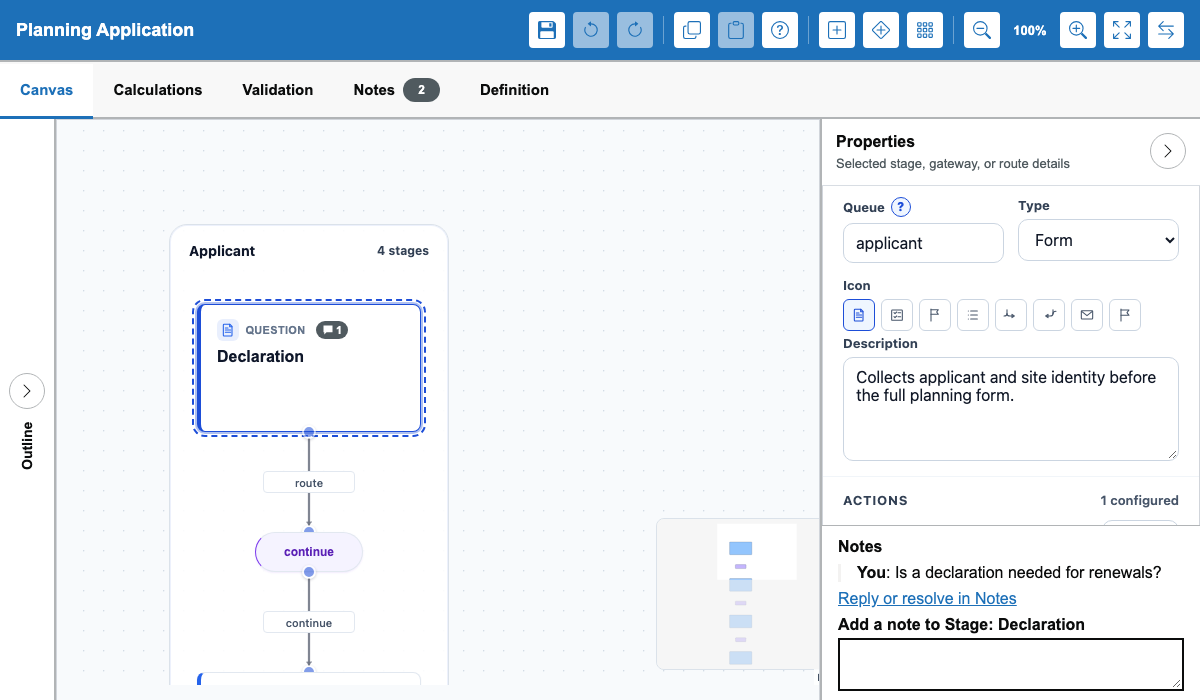
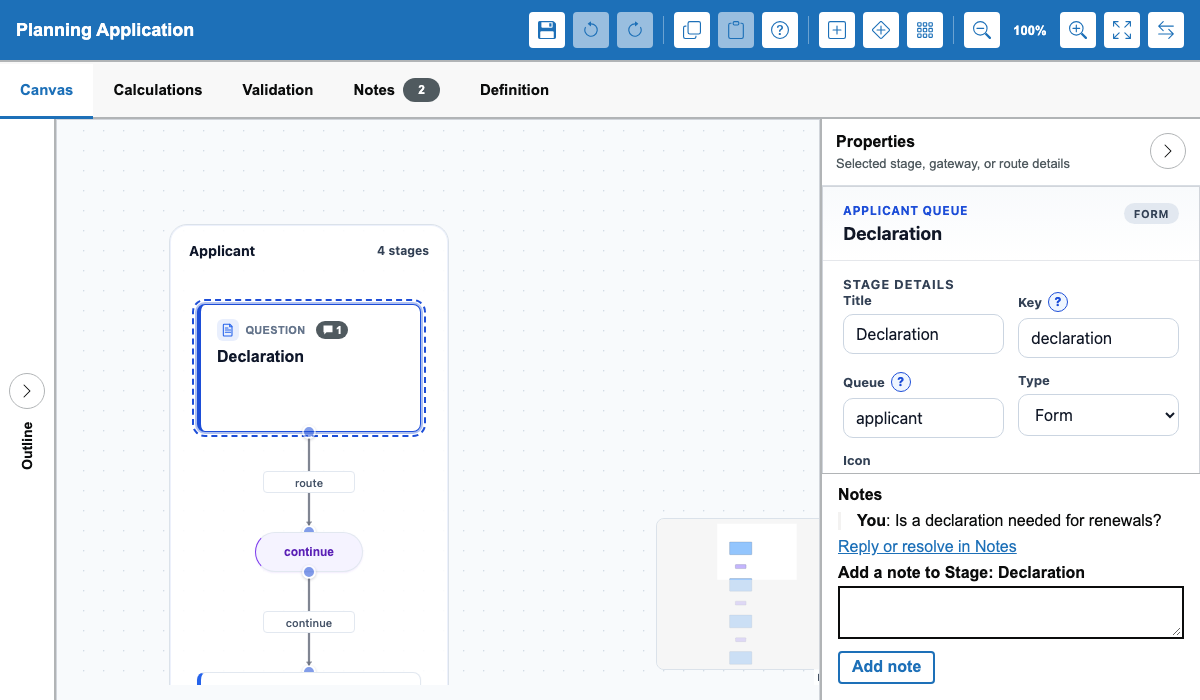
fix(editor): the way to add a design note can be reached under a selected stage (#234)
The note box sat below the step inspector inside a panel that clips its overflow, and the inspector
always fills the panel's height, so the box was never on screen. The inspector's panel is now a
column: the inspector scrolls on its own and the notes are pinned beneath it.

Claude-Session: https://claude.ai/code/session_017NP926h83mkKFjgLm6Agiy

diff --git a/Wayfinder.Editor.Client/tests/service-blueprint-editor/service-blueprint-editor-design-notes.spec.ts b/Wayfinder.Editor.Client/tests/service-blueprint-editor/service-blueprint-editor-design-notes.spec.ts
@@ -47,6 +47,16 @@ async function addNoteTo(page: Page, stageKey: string, text: string) {
 }
 
 test.describe('ServiceBlueprint editor design notes', () => {
+  test('the way to add a note stays on screen below a stage with a long inspector', async ({ page }) => {
+    await openEditor(page);
+
+    await page.locator('[data-wayfinder-stage="application-form"]').click();
+
+    const form = page.locator('[data-wayfinder-add-design-note]');
+    await expect(form.getByRole('textbox')).toBeInViewport();
+    await expect(form.getByRole('button', { name: 'Add note' })).toBeInViewport();
+  });
+
   test('a note added to a selected stage is marked on the canvas and listed in Notes', async ({ page }) => {
     await openEditor(page);
 

diff --git a/Wayfinder.Editor.Client/src/service-blueprint-editor/wayfinder-service-blueprint-editor.css b/Wayfinder.Editor.Client/src/service-blueprint-editor/wayfinder-service-blueprint-editor.css
@@ -361,6 +361,11 @@
   overflow: hidden;
 }
 
+.inspector-panel-body:not([hidden]) {
+  display: flex;
+  flex-direction: column;
+}
+
 .panel-collapsed .panel-header {
   align-items: center;
   justify-content: center;
@@ -638,7 +643,7 @@
 }
 
 .inspector-panel {
-  flex: 1;
+  flex: 1 1 0;
   overflow: hidden;
   min-height: 0;
 }
@@ -1232,9 +1237,15 @@
   cursor: not-allowed;
 }
 
+/* Pinned under the inspector, which scrolls on its own, so adding a note never means scrolling
+   past every component of a long stage. */
 .selection-notes {
+  flex: 0 0 auto;
+  max-height: 45%;
+  overflow-y: auto;
   padding: 0.75rem 1rem 1rem;
   border-top: 1px solid #b1b4b6;
+  background: #ffffff;
 }
 
 .selection-notes-title {

diff --git a/Wayfinder.Editor.Client/src/service-blueprint-editor/wayfinder-service-blueprint-editor.ts b/Wayfinder.Editor.Client/src/service-blueprint-editor/wayfinder-service-blueprint-editor.ts
@@ -635,7 +635,7 @@ export class WayfinderServiceBlueprintEditorElement extends LitElement {
           opensTowards: 'left',
           onToggle: this._layout.toggleInspector,
         })}
-        <div id="service-blueprint-editor-inspector-panel" class="panel-body" ?hidden=${collapsed}>
+        <div id="service-blueprint-editor-inspector-panel" class="panel-body inspector-panel-body" ?hidden=${collapsed}>
           <wayfinder-step-inspector
             class="inspector-panel"
             tabindex="0"

diff --git a/CHANGELOG.md b/CHANGELOG.md
@@ -11,6 +11,12 @@ Releases up to and including v0.19.0 are listed on
 
 ## [Unreleased]
 
+### Fixed
+
+- `Wayfinder.Editor`: the way to add a note to the selected stage, gateway or route is pinned under
+  the Properties panel, which scrolls on its own. It was below the panel's visible area and could
+  not be reached.
+
 ## [0.24.0] - 2026-10-22
 
 Also releases `Wayfinder.Editor` 0.10.0 (design notes, and following changes saved elsewhere).
